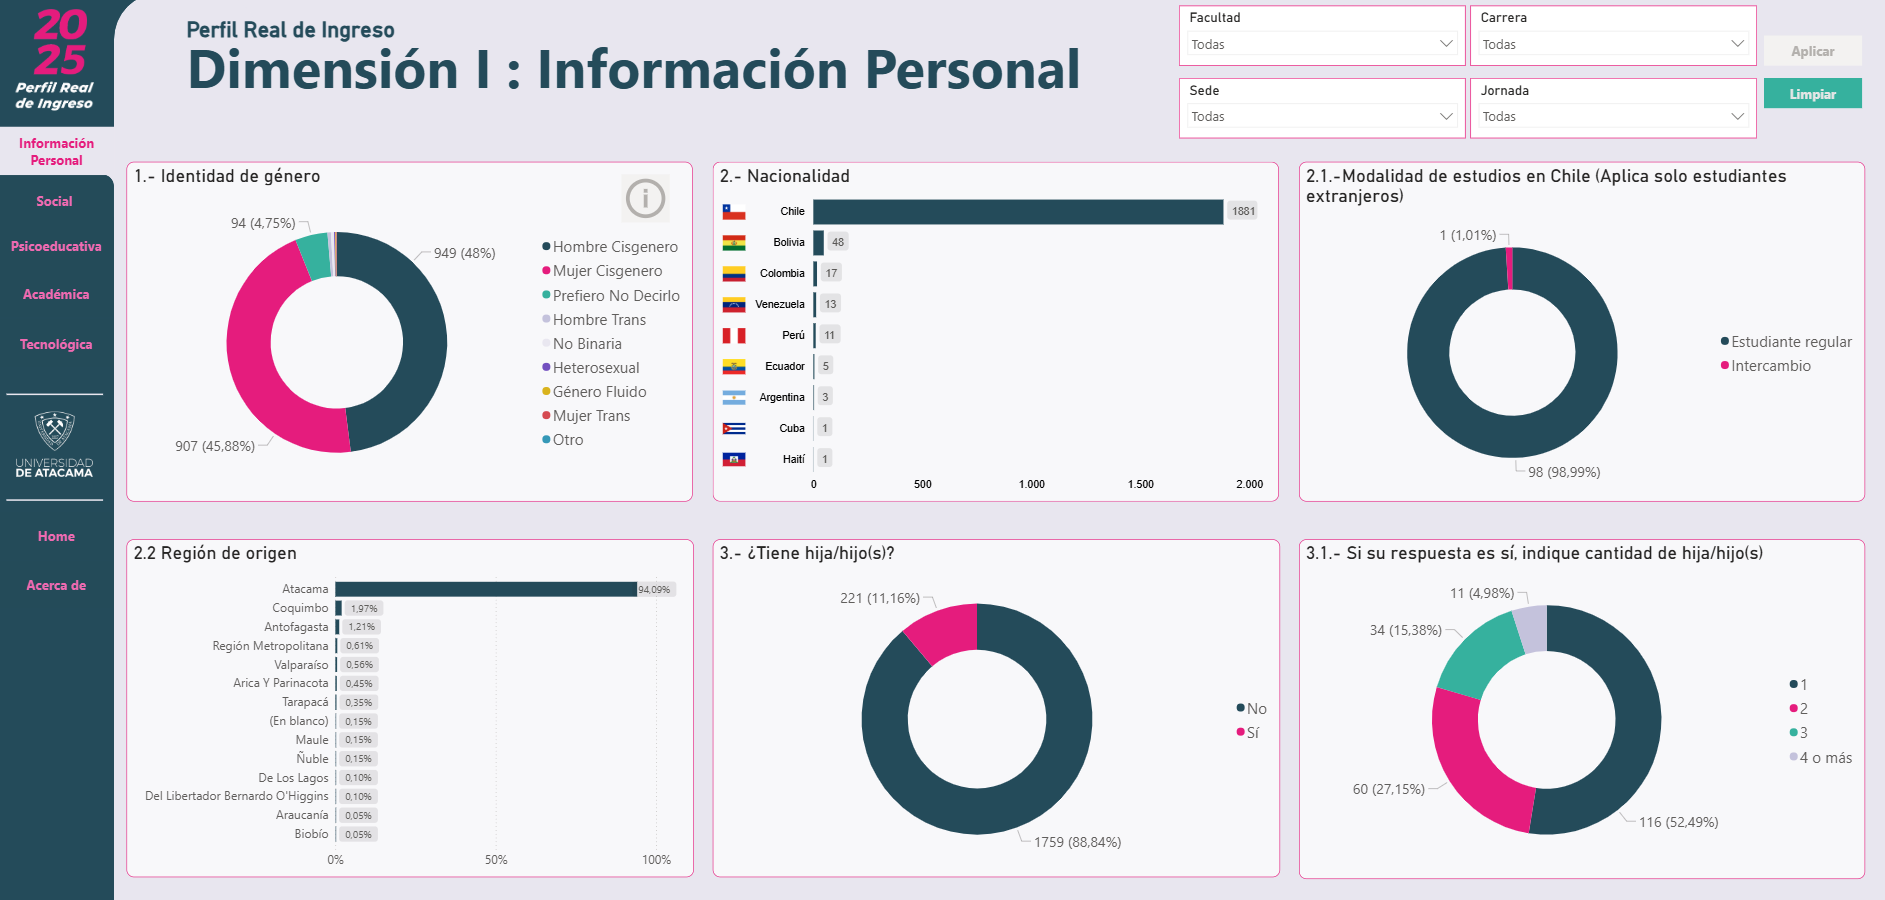
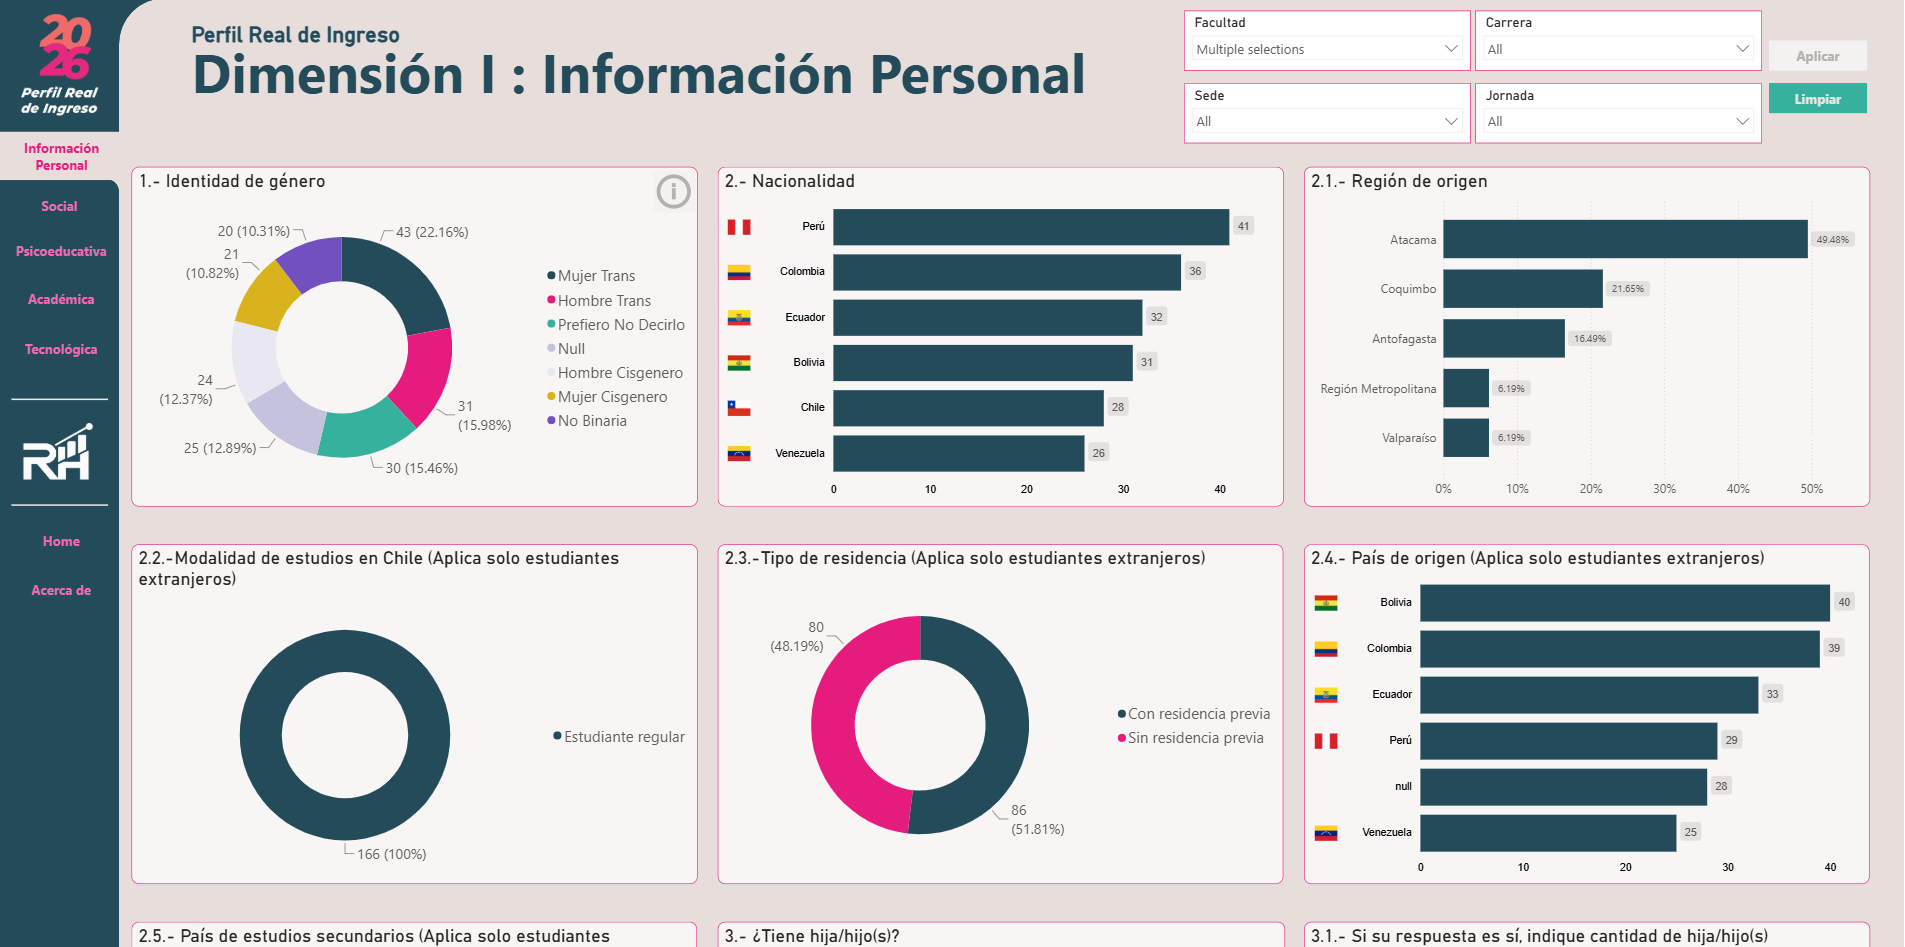
Portafolio: dashboard de caracterización estudiantil anonimizado
- Nuevo enlace de Power BI (versión con datos ficticios).
- La tarjeta ya no nombra a la institución; imagen de la tarjeta actualizada.

diff --git a/index.html b/index.html
@@ -239,10 +239,10 @@
 
             <div class="project-card-full reveal-left">
                 <div class="project-image">
-                    <img src="images/projects/caracterizacion_uda.png" alt="Dashboard Encuesta Caracterización UDA en Power BI" title="Dashboard Encuesta Caracterización UDA en Power BI">
+                    <img src="images/projects/caracterizacion_uda.png" alt="Dashboard de la Encuesta de Caracterización Estudiantil en Power BI" title="Dashboard de la Encuesta de Caracterización Estudiantil en Power BI">
                 </div>
                 <div class="project-details">
-                    <h3>Dashboard BI: Encuesta de Caracterización UDA (Power BI)</h3>
+                    <h3>Dashboard BI: Encuesta de Caracterización Estudiantil (Power BI)</h3>
                     <div class="tool-icons">
                         <img src="images/power-bi-2021-48.png" alt="Power BI" title="Power BI">
                         <img src="images/mysql-48.png" alt="My SQL" title="My SQL">
@@ -252,12 +252,12 @@
                     </div>
                     <p class="project-stack"><b>Foco:</b> Business Intelligence, Power BI, Modelado de Datos, Análisis Educacional.</p>
                     <p>
-                        Desarrollo de un dashboard interactivo en <b>Power BI</b> para la <b>Universidad de Atacama</b> (UDA) que visualiza los resultados de la Encuesta de Caracterización. El objetivo es proporcionar información clara sobre el perfil de los estudiantes, la infraestructura y el aseguramiento de la calidad.
+                        Desarrollo de un dashboard interactivo en <b>Power BI</b> para una <b>institución de educación superior</b> que visualiza los resultados de la Encuesta de Caracterización de estudiantes de primer año. Los datos publicados son ficticios. El objetivo es proporcionar información clara sobre el perfil de los estudiantes, la infraestructura y el aseguramiento de la calidad.
                     </p>
                     <p>
                         <b>Habilidad Demostrada:</b> Diseño de un modelo de datos robusto (Star Schema o Snowflake) en Power BI para manejar múltiples dimensiones de la encuesta, y aplicación de fórmulas <b>DAX</b> para el cálculo de métricas complejas requeridas por la gestión universitaria.
                     </p>
-                    <a href="https://app.powerbi.com/view?r=eyJrIjoiOWU0NWJhOTItOTViYy00MzE4LTljYzEtMDI0MzEzNTE3N2Y2IiwidCI6ImU5Mzk3ZmNhLTEzYzMtNGNjZC1hMTgyLTQ5MjNkZWM2YzA0YSJ9" target="_blank" class="btn primary-btn">Ver Dashboard (Power BI) <i class="fas fa-chart-bar"></i></a>
+                    <a href="https://app.powerbi.com/view?r=eyJrIjoiMjcyOGYwNmYtMWEwZi00ZGNiLTkyMWYtNjcwZmVlYTU1ODE0IiwidCI6ImU5Mzk3ZmNhLTEzYzMtNGNjZC1hMTgyLTQ5MjNkZWM2YzA0YSJ9" target="_blank" class="btn primary-btn">Ver Dashboard (Power BI) <i class="fas fa-chart-bar"></i></a>
                     <!-- <a href="enlace/a/documentacion/del/modelo_de_datos" target="_blank" class="btn secondary-btn">Ver Modelo de Datos <i class="fas fa-sitemap"></i></a> -->
                 </div>
             </div>

diff --git a/proyectos.html b/proyectos.html
@@ -134,10 +134,10 @@
             
             <div class="project-card-full">
                 <div class="project-image">
-                    <img src="images/projects/caracterizacion_uda.png" alt="Dashboard Encuesta Caracterización UDA en Power BI" title="Dashboard Encuesta Caracterización UDA en Power BI">
+                    <img src="images/projects/caracterizacion_uda.png" alt="Dashboard de la Encuesta de Caracterización Estudiantil en Power BI" title="Dashboard de la Encuesta de Caracterización Estudiantil en Power BI">
                 </div>
                 <div class="project-details">
-                    <h3>Dashboard BI: Encuesta de Caracterización UDA (Power BI)</h3>
+                    <h3>Dashboard BI: Encuesta de Caracterización Estudiantil (Power BI)</h3>
                     <div class="tool-icons">
                         <img src="images/power-bi-2021-48.png" alt="Power BI" title="Power BI">
                         <img src="images/mysql-48.png" alt="My SQL" title="My SQL">
@@ -146,12 +146,12 @@
                     </div>
                     <p class="project-stack"><b>Foco:</b> Business Intelligence, Power BI, Modelado de Datos, Análisis Educacional.</p>
                     <p>
-                        Desarrollo de un dashboard interactivo en <b>Power BI</b> para la <b>Universidad de Atacama</b> (UDA) que visualiza los resultados de la Encuesta de Caracterización. El objetivo es proporcionar información clara sobre el perfil de los estudiantes, la infraestructura y el aseguramiento de la calidad.
+                        Desarrollo de un dashboard interactivo en <b>Power BI</b> para una <b>institución de educación superior</b> que visualiza los resultados de la Encuesta de Caracterización de estudiantes de primer año. Los datos publicados son ficticios. El objetivo es proporcionar información clara sobre el perfil de los estudiantes, la infraestructura y el aseguramiento de la calidad.
                     </p>
                     <p>
                         <b>Habilidad Demostrada:</b> Diseño de un modelo de datos robusto (Star Schema o Snowflake) en Power BI para manejar múltiples dimensiones de la encuesta, y aplicación de fórmulas <b>DAX</b> para el cálculo de métricas complejas requeridas por la gestión universitaria.
                     </p>
-                    <a href="https://app.powerbi.com/view?r=eyJrIjoiOWU0NWJhOTItOTViYy00MzE4LTljYzEtMDI0MzEzNTE3N2Y2IiwidCI6ImU5Mzk3ZmNhLTEzYzMtNGNjZC1hMTgyLTQ5MjNkZWM2YzA0YSJ9" target="_blank" class="btn primary-btn">Ver Dashboard (Power BI) <i class="fas fa-chart-bar"></i></a>
+                    <a href="https://app.powerbi.com/view?r=eyJrIjoiMjcyOGYwNmYtMWEwZi00ZGNiLTkyMWYtNjcwZmVlYTU1ODE0IiwidCI6ImU5Mzk3ZmNhLTEzYzMtNGNjZC1hMTgyLTQ5MjNkZWM2YzA0YSJ9" target="_blank" class="btn primary-btn">Ver Dashboard (Power BI) <i class="fas fa-chart-bar"></i></a>
                     <!-- <a href="enlace/a/documentacion/del/modelo_de_datos" target="_blank" class="btn secondary-btn">Ver Modelo de Datos <i class="fas fa-sitemap"></i></a> -->
                 </div>
             </div>
